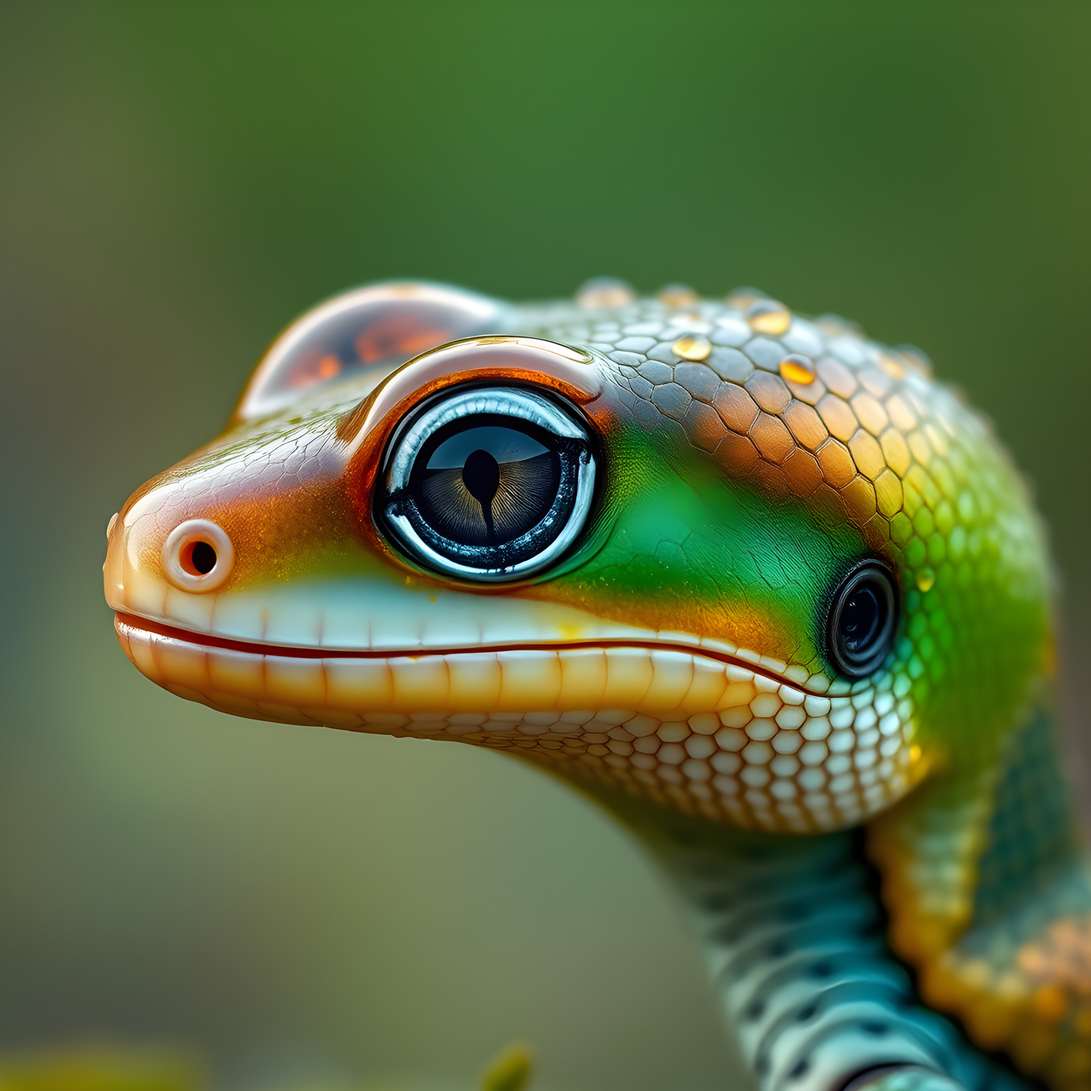
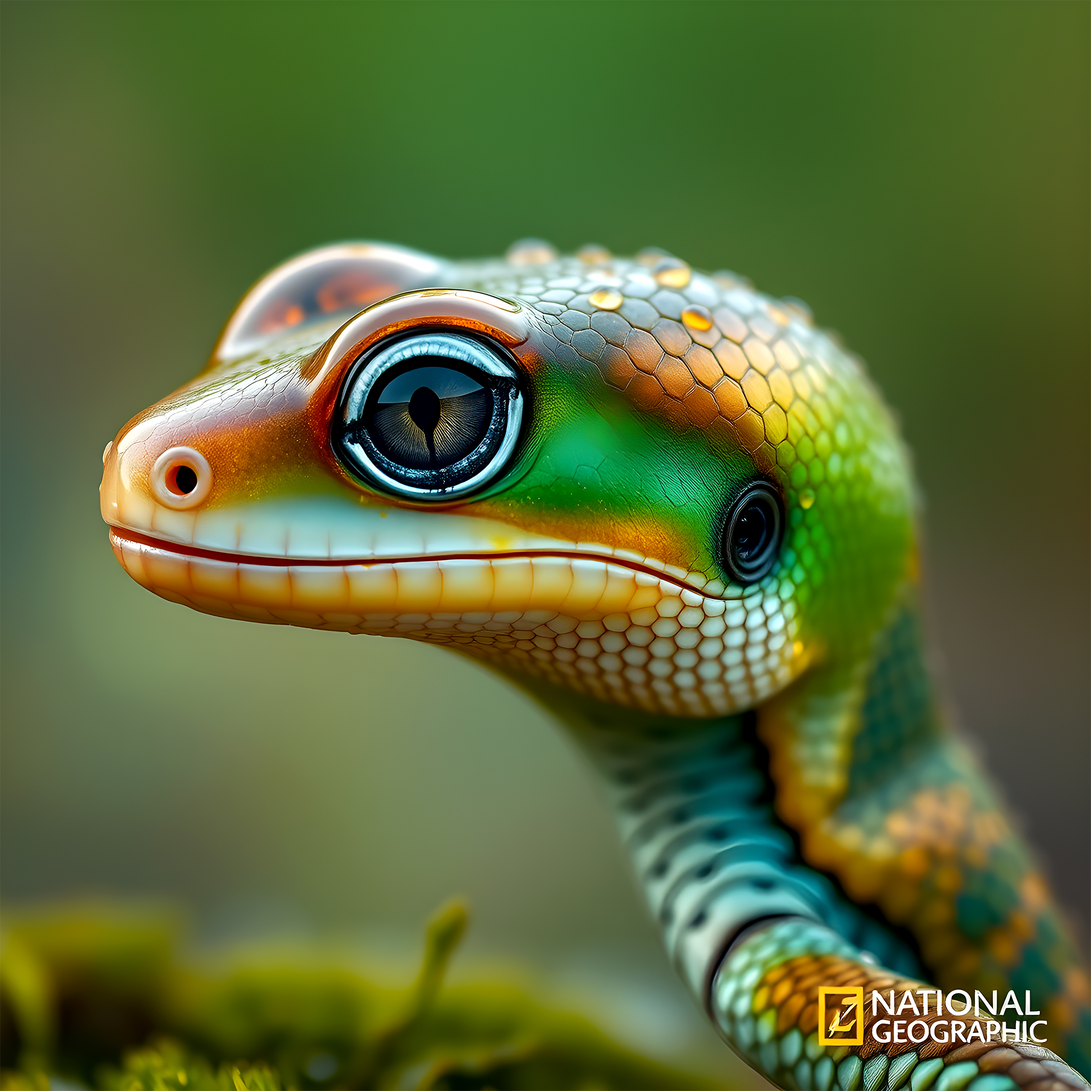
Upgrade 2026-09-25 Sylrix Mossglass to epic wallpaper HQ

diff --git a/drops/2026-09-25/captions.md b/drops/2026-09-25/captions.md
@@ -1,6 +1,6 @@
 # Captions - Sylrix Mossglass wallpapers (2026-09-25)
 
-Calm short brand voice. No em dashes. Human, not AI babble.
+Calm short Minzy voice. No em dashes. Human, not stiff.
 
 CTA: https://github.com/mikebelyea/minzystudios-freebies/tree/main/drops/2026-09-25
 
@@ -10,7 +10,7 @@ CTA: https://github.com/mikebelyea/minzystudios-freebies/tree/main/drops/2026-09
 
 Free wallpapers from Minzy Studios.
 
-Sylrix Mossglass. A moss-glass skink at meadow dawn. Two big desktop images plus stills.
+Sylrix Mossglass. Quiet skink on warm stone. Emerald glass and soft moss at dawn. Two big desktops plus stills.
 
 Personal use.
 https://github.com/mikebelyea/minzystudios-freebies/tree/main/drops/2026-09-25
@@ -22,7 +22,9 @@ https://github.com/mikebelyea/minzystudios-freebies/tree/main/drops/2026-09-25
 Sylrix Mossglass
 Free drop from Minzy Studios
 
-Quiet skink. Meadow dawn dew. Desktop, phone, and square stills if you want them.
+Dew on ferns. Moss along the spine. Soft meadow light.
+
+Desktop, phone, and square stills if you want them.
 
 Personal use.
 github.com/mikebelyea/minzystudios-freebies/tree/main/drops/2026-09-25
@@ -35,7 +37,7 @@ github.com/mikebelyea/minzystudios-freebies/tree/main/drops/2026-09-25
 
 Free drop from Minzy Studios.
 
-Sylrix Mossglass wallpapers. Moss-glass skink in a quiet meadow at dawn. Desktop and phone.
+Sylrix Mossglass. A little moss-glass skink in the dawn grass. Desktop and phone sizes ready.
 
 Personal use.
 github.com/mikebelyea/minzystudios-freebies/tree/main/drops/2026-09-25
@@ -46,7 +48,7 @@ github.com/mikebelyea/minzystudios-freebies/tree/main/drops/2026-09-25
 
 Free art from Minzy Studios.
 
-Meet Sylrix Mossglass. A mystical skink with translucent emerald and amber scales, soft moss along the spine, at meadow dawn. Desktop wallpapers, stills, and phone crops. Free for personal use. Credit appreciated if you share.
+Sylrix Mossglass is out. A moss-glass skink in meadow dawn light. Translucent emerald and amber scales, soft moss along the spine. Two desktop wallpapers, stills, and phone crops. Free for personal use. Credit appreciated if you share.
 
 https://github.com/mikebelyea/minzystudios-freebies/tree/main/drops/2026-09-25
 hello@minzystudios.com

diff --git a/drops/2026-09-25/README.md b/drops/2026-09-25/README.md
@@ -34,7 +34,7 @@ Body plan: reptile (skink / small lizard). Clear rotation away from fox, otter, 
 - Studio: [Minzy Studios](https://minzystudios.com)
 - Contact: hello@minzystudios.com
 - Creature: Sylrix Mossglass (mystical moss-glass skink, meadow dawn)
-- Art: Flux schnell (AETHERION free-drop engine), RealESRGAN_x4plus HQ, 2026-09-25
+- Art: Flux schnell (AETHERION free-drop engine), RealESRGAN_x4plus HQ, Photoshop epic wallpaper polish, 2026-09-25
 
 ## Download
 
